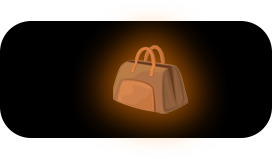
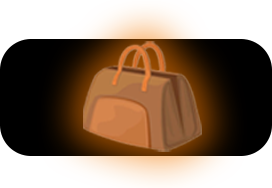
-

diff --git a/Build/babylon-test.js b/Build/babylon-test.js
@@ -1698,18 +1698,6 @@ var advancedTexture = BABYLON.GUI.AdvancedDynamicTexture.CreateFullscreenUI("UI"
     advancedTexture.addControl(anipanel);
 
 
-    // var imageopen = new BABYLON.GUI.Image("Image", "https://raw.githubusercontent.com/Ashishj34/BabylonModels/Dev/hidesign%20pics/Closed.png");
-    // imageopen.width = "100%";
-    // imageopen.height = "100%";
-    // anipanel.addControl(imageopen); 
-
-    // var imageCLOSE = new BABYLON.GUI.Image("Image", "https://raw.githubusercontent.com/Ashishj34/BabylonModels/Dev/hidesign%20pics/Open.png");
-    // imageCLOSE.isVisible = false;
-    // imageCLOSE.width = "100%";
-    // imageCLOSE.height = "100%";
-
-    // anipanel.addControl(imageCLOSE); 
-
 
     var AnimationgD = new BABYLON.GUI.Grid("kaligd");
     AnimationgD.width = "100%";
@@ -1720,14 +1708,16 @@ var advancedTexture = BABYLON.GUI.AdvancedDynamicTexture.CreateFullscreenUI("UI"
     anipanel.addControl(AnimationgD);
 
 
-    var button1 = BABYLON.GUI.Button.CreateImageOnlyButton("CLOSED_Btn", "https://raw.githubusercontent.com/Ashishj34/BabylonModels/Dev/hidesign%20pics/Closed.png" );
+    var button1 = BABYLON.GUI.Button.CreateImageOnlyButton("CLOSED_Btn", "https://raw.githubusercontent.com/Ashishj34/BabylonModels/Dev/hidesign%20pics/Group 1.png" );
     button1.width = "100%"
     button1.height = "100%";
-    button1.fontSize = "38%";
+    button1.fontSize = "100%";
+    button1.image.width = "100%";
+    button1.image.height = "110%";
    // button1.textBlock.text = "CLOSED";
-    button1.color = "";
+   // button1.color = "";
     button1.resizeToFit = true;
-    button1.cornerRadius = 100;
+   // button1.cornerRadius = 0;
    // button1.background = "RED";
     button1.onPointerUpObservable.add(function () {
         const aniGr = scene.animationGroups
@@ -1752,15 +1742,15 @@ var advancedTexture = BABYLON.GUI.AdvancedDynamicTexture.CreateFullscreenUI("UI"
     AnimationgD.addControl(button1,0,0);
 
 
-    var CLOSED = BABYLON.GUI.Button.CreateImageOnlyButton("OPEN_Btn",  "https://raw.githubusercontent.com/Ashishj34/BabylonModels/Dev/hidesign%20pics/Open.png");
+    var CLOSED = BABYLON.GUI.Button.CreateImageOnlyButton("OPEN_Btn",  "https://raw.githubusercontent.com/Ashishj34/BabylonModels/Dev/hidesign%20pics/Group 2.png");
     CLOSED.isVisible = false;
     CLOSED.width = "100%"
     CLOSED.height = "100%";
-    CLOSED.fontSize = "40%";
+    CLOSED.fontSize = "100%";
     // CLOSED.textBlock.text = "OPEN";
     // CLOSED.color = "white";
     CLOSED.resizeToFit = true;
-    CLOSED.cornerRadius = 100;
+    CLOSED.cornerRadius = 0;
     //CLOSED.background = "GREEN";
     CLOSED.onPointerUpObservable.add(function () {
         const aniGr = scene.animationGroups
